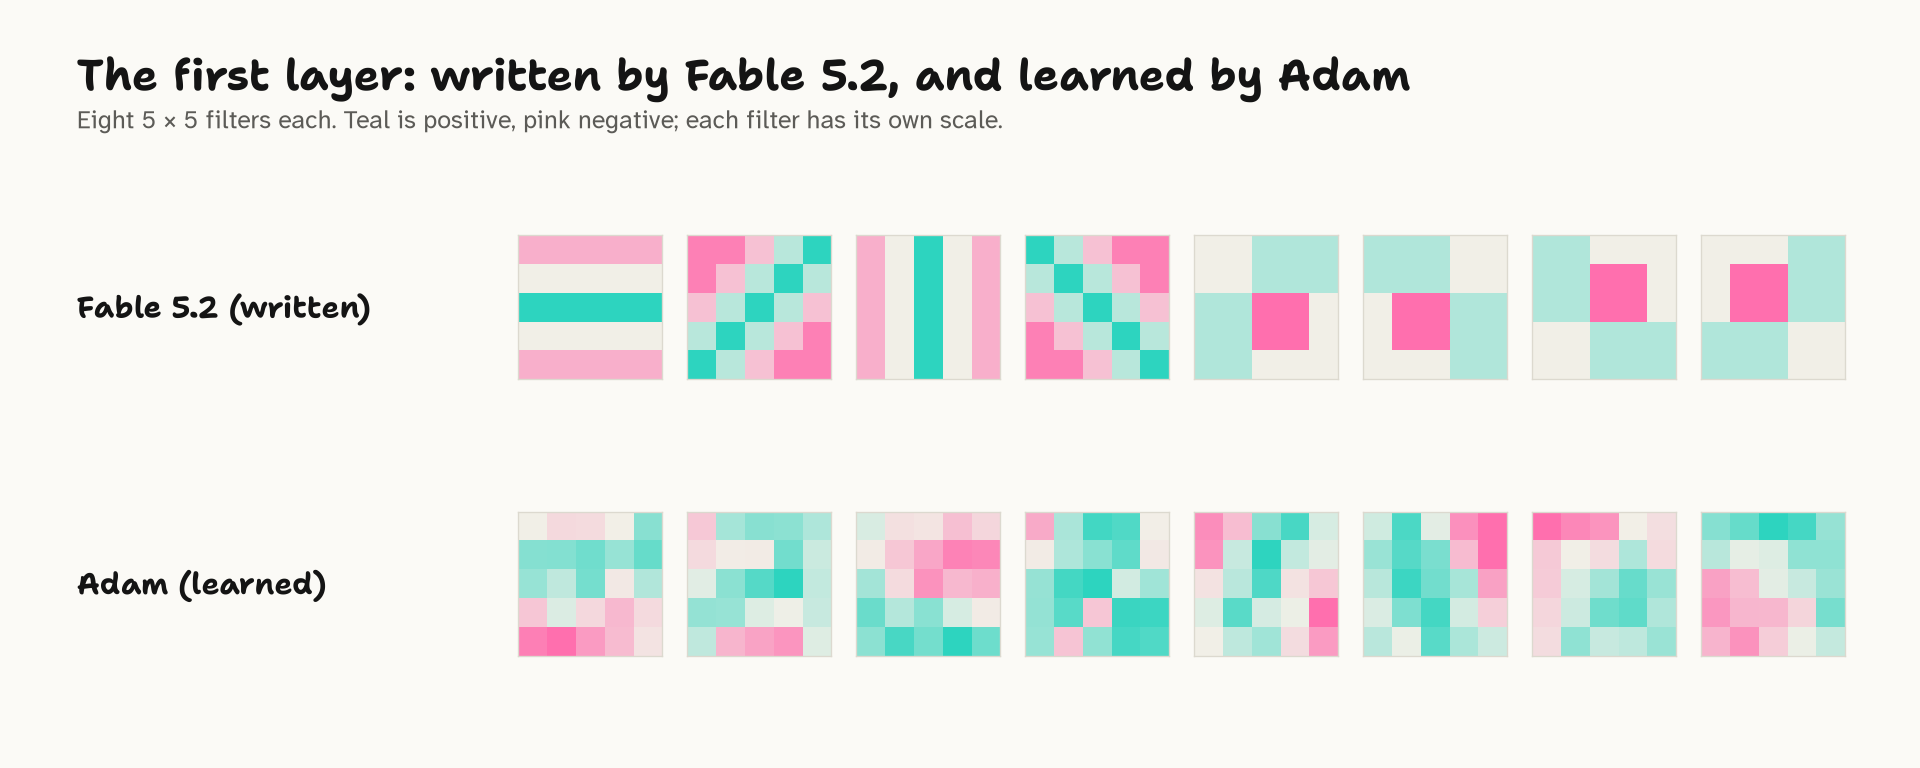
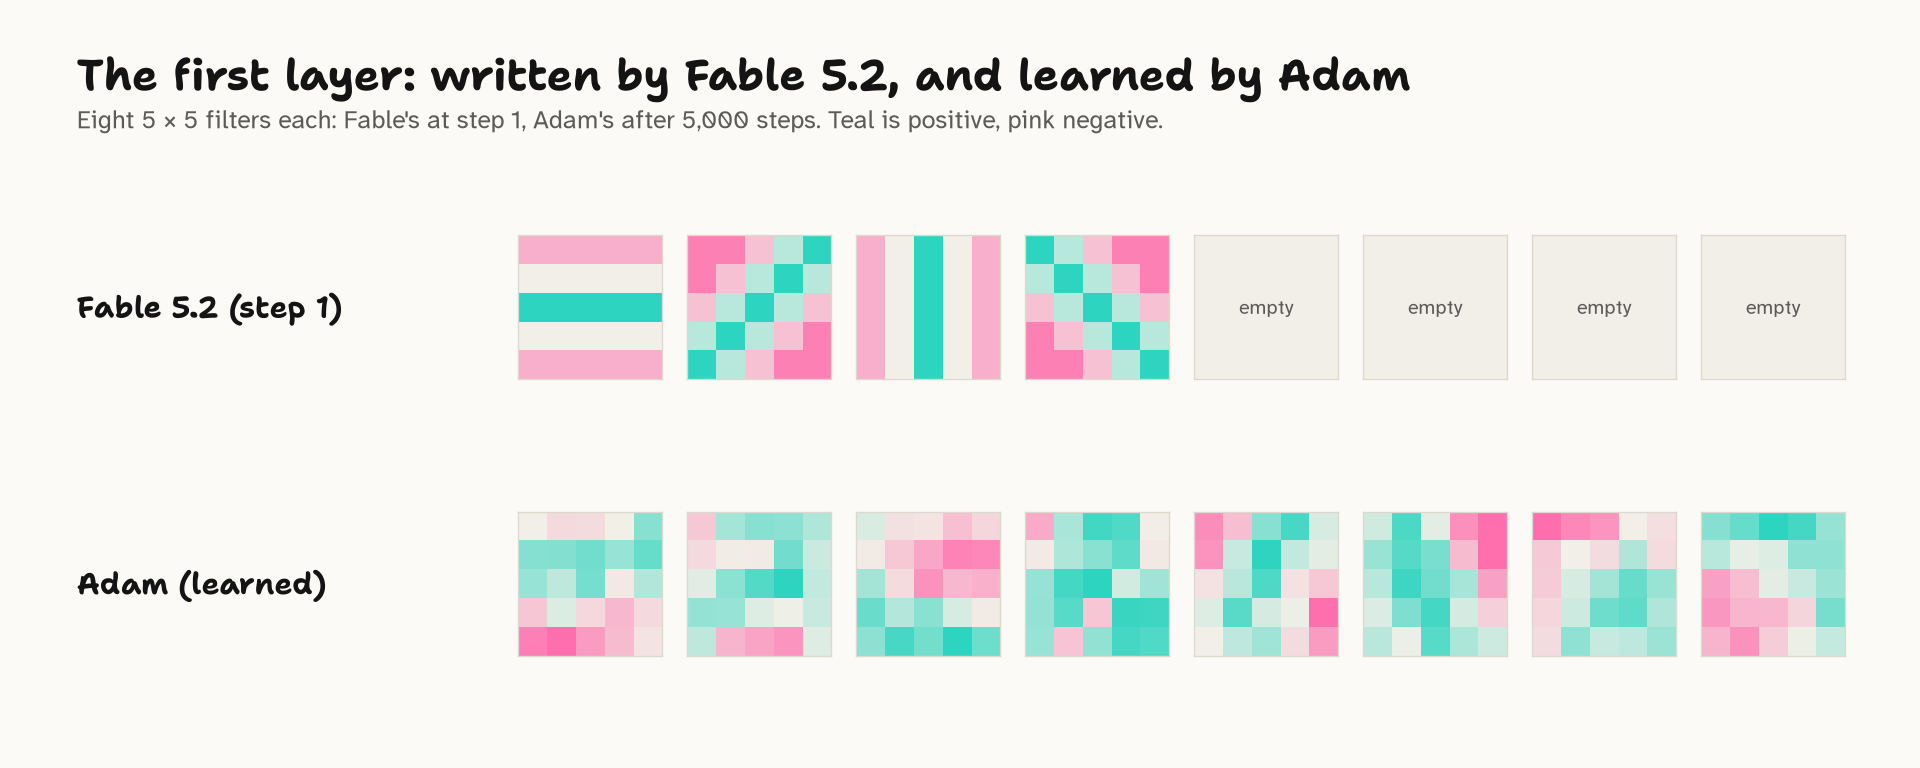
Weight-Space Programming 1990s: filters figure shows step 1 (four line detectors, four empty)

Changed region(s): [[0.625, 0.2812, 0.9688, 0.5], [0.1875, 0.125, 0.5938, 0.1875], [0.125, 0.375, 0.1875, 0.4375]]

diff --git a/notes/permanent/weight-space-programming-1990s.md b/notes/permanent/weight-space-programming-1990s.md
@@ -127,7 +127,7 @@ Claude starts like a 1990s computer vision engineer. Its first layer is a set of
 
 Each detector is a 5×5 grid of weights in the first [convolutional layer](https://en.wikipedia.org/wiki/Convolutional_layer). The way a conv layer works is that each filter slides across the image, multiplying the 25 pixels under it by its 25 weights and adding them up, so it scores high wherever there's a stroke at its angle, and zero on blank paper. Fable fills in four of the layer's eight filters this way and leaves the other four at zero for later.
 
-[![Two rows of eight 5 by 5 first-layer filters, teal for positive and pink for negative. Fable 5.2's row, from run 1: four line detectors at 0, 45, 90 and 135 degrees, then four corner detectors, one for each kind of right-angled corner. Adam's row: irregular, mixed patterns.](../_media/llm-descent/filters-written-vs-learned.png)](../_media/llm-descent/filters-written-vs-learned.png)
+[![Two rows of eight 5 by 5 first-layer filters, teal for positive and pink for negative. Fable 5.2's row, from run 1 at step 1: four line detectors at 0, 45, 90 and 135 degrees, then four empty filters. Adam's row, after 5,000 steps: irregular, mixed patterns.](../_media/llm-descent/filters-written-vs-learned.png)](../_media/llm-descent/filters-written-vs-learned.png)
 
 Its second layer adds up each detector's map over patches of the image, so every image ends up as a 4×4 grid of cells saying which stroke directions appear in each.
 
